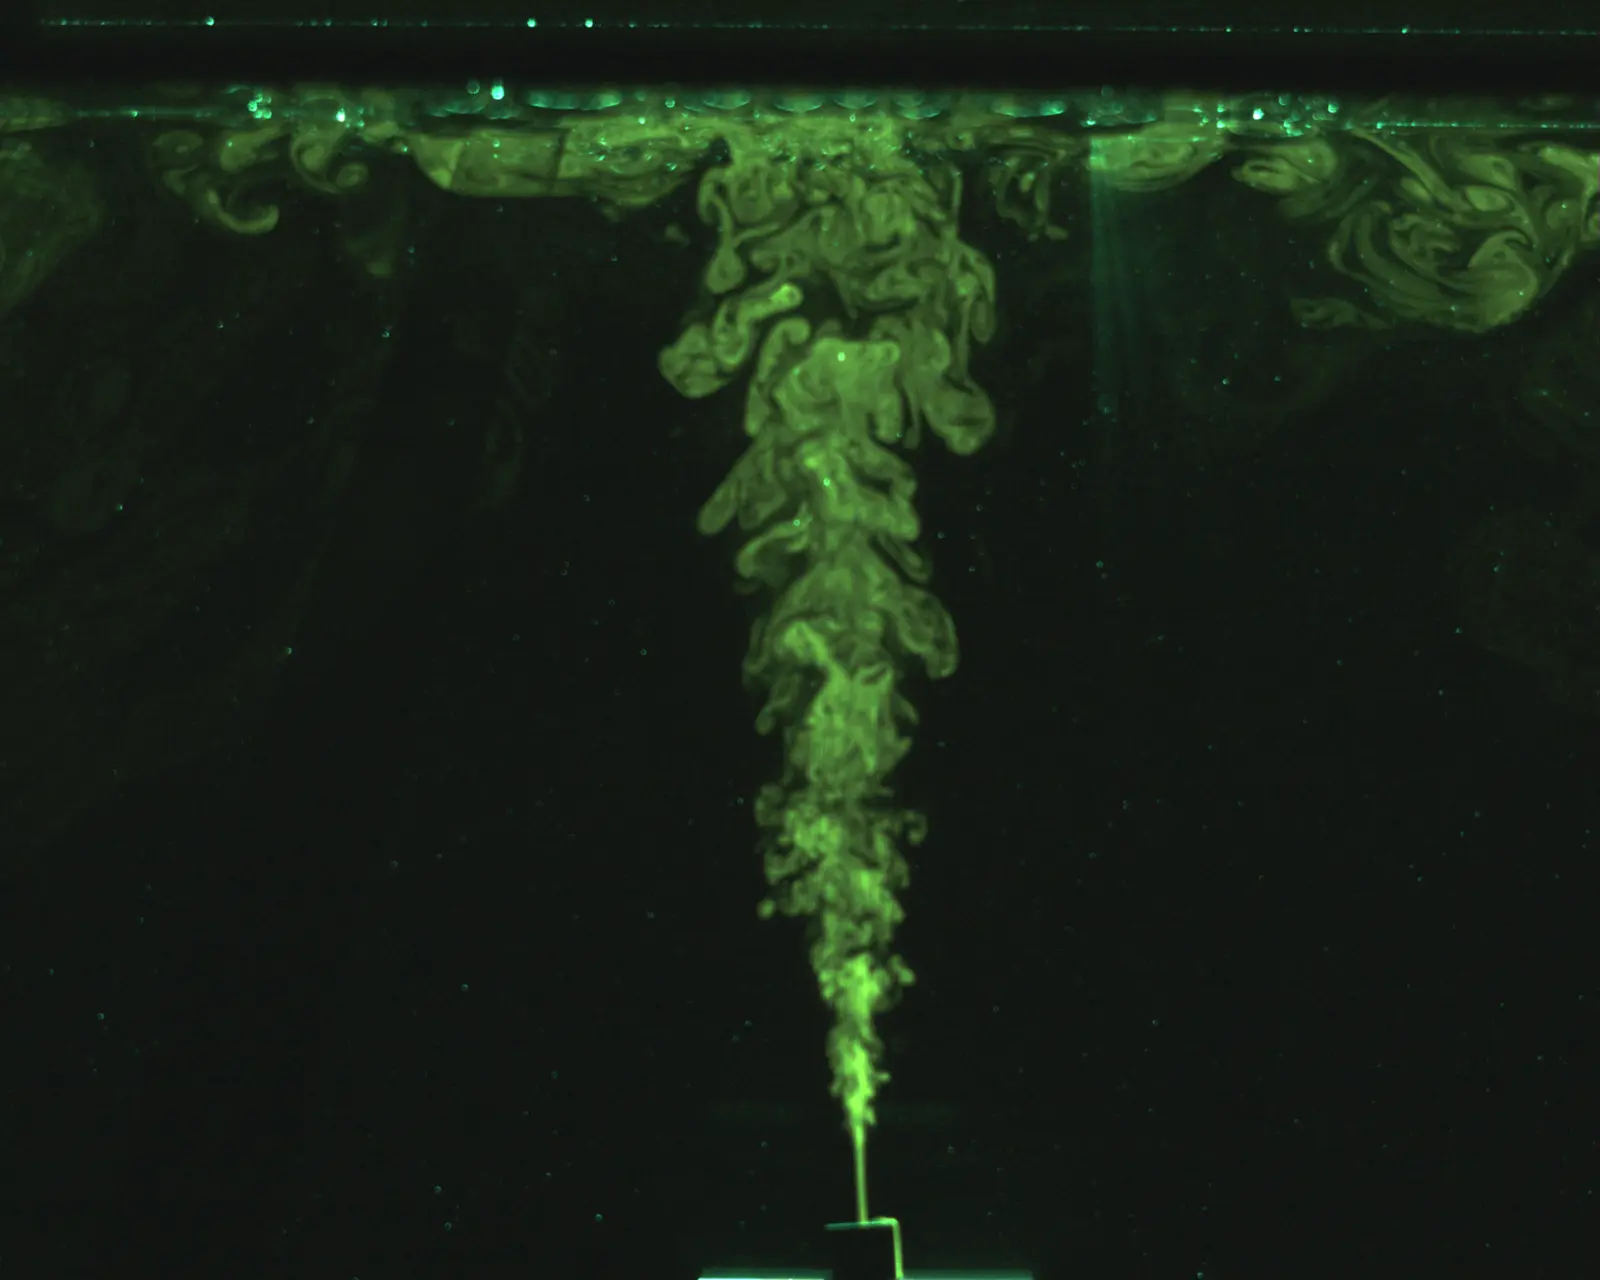
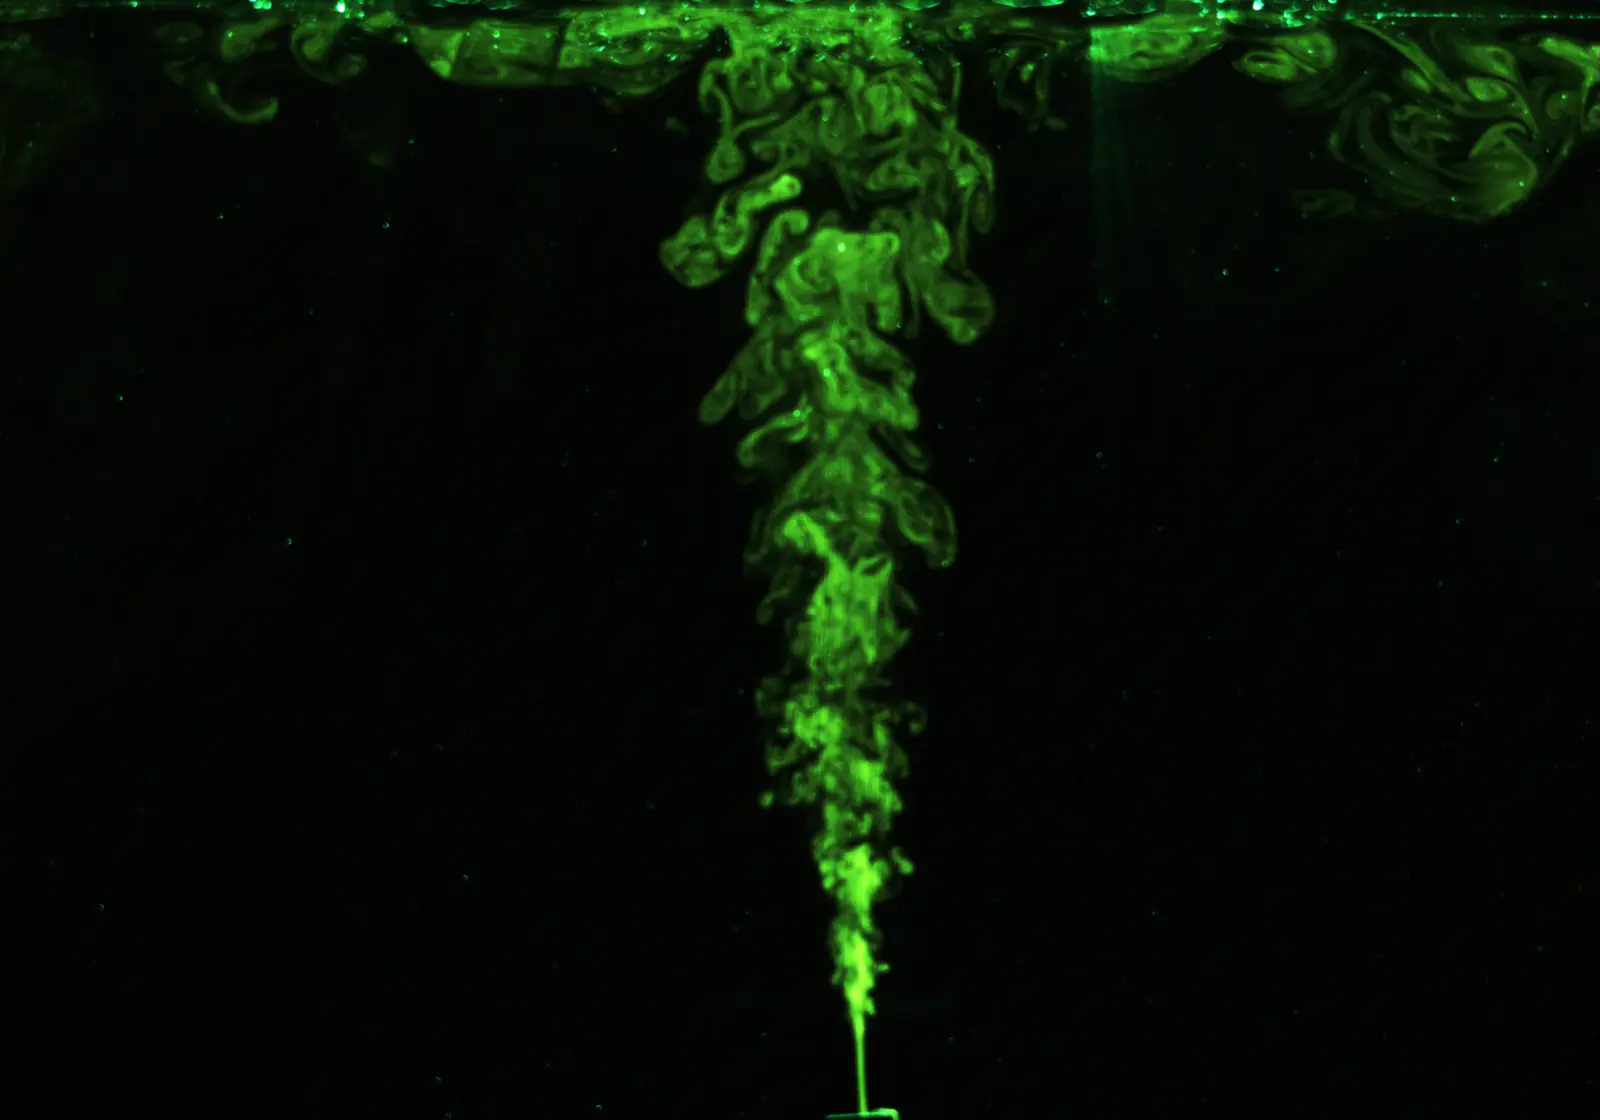
Replace plume research image

diff --git a/about.html b/about.html
@@ -1350,7 +1350,7 @@
           <img
             src="assets/turbulent-plume-research.webp"
             width="1600"
-            height="1280"
+            height="1120"
             loading="lazy"
             alt="Fluorescent laboratory image of a turbulent buoyant plume impinging on a ceiling"
           >
